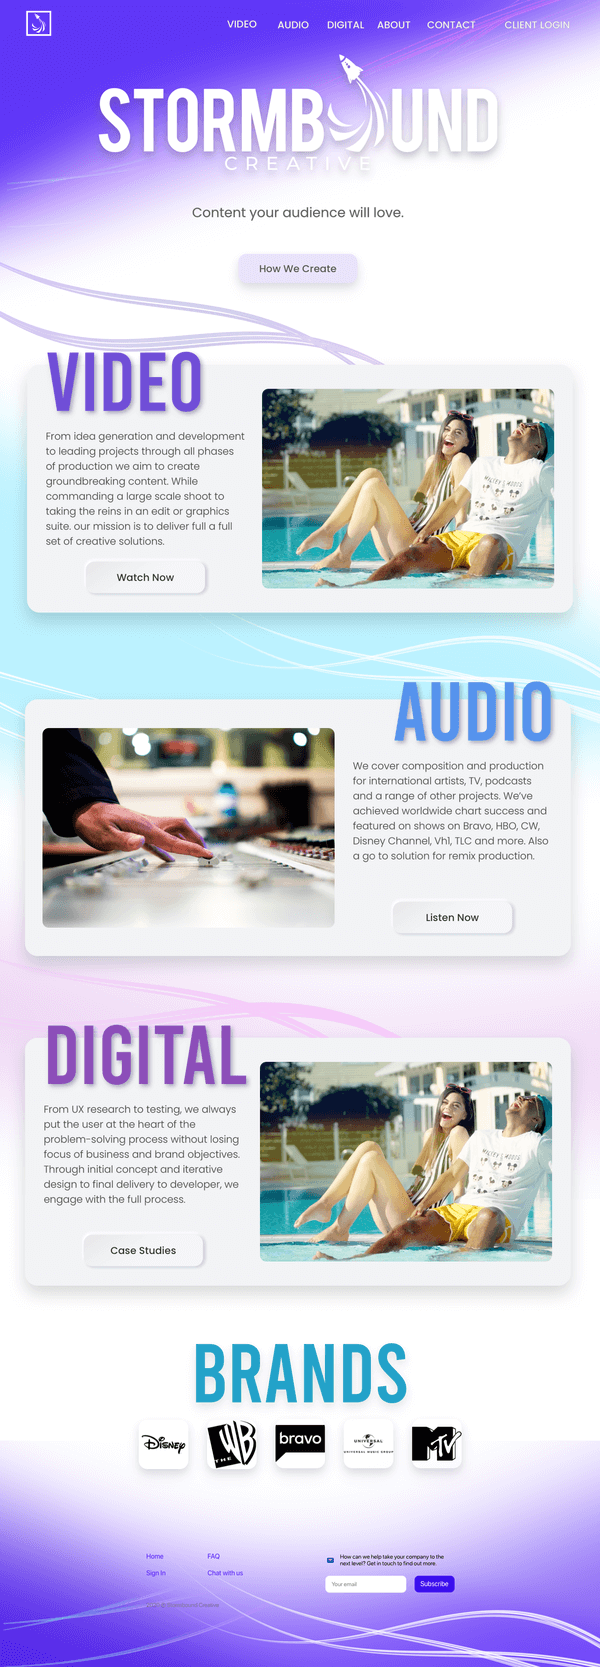
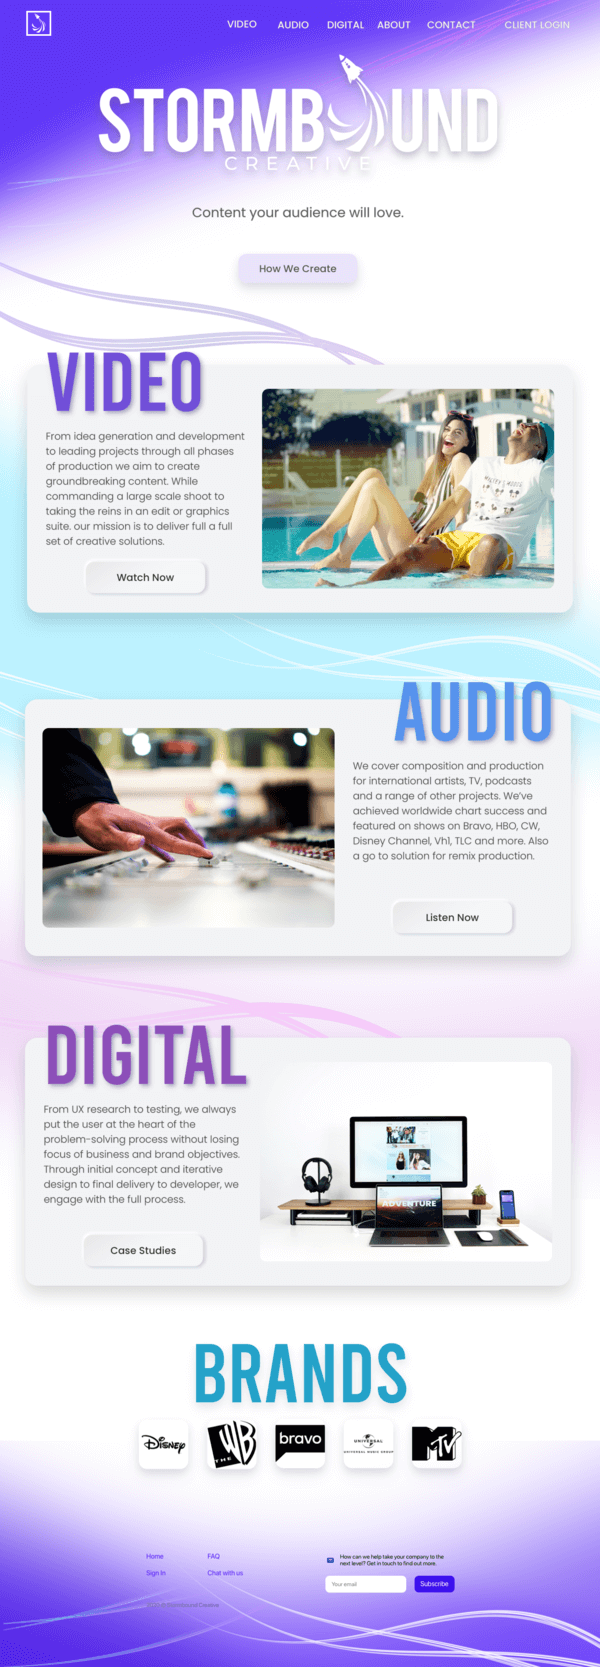
Added Stormbound website image

diff --git a/ui.html b/ui.html
@@ -56,7 +56,7 @@
       </div>
 
       <div>
-        <h3 class="center">Project: A Few New Trends</h3>
+        <h3 class="center">Project: A New UI Trends</h3>
         <br>
         <div class="center">
           <video width="616" height="436" controls>
@@ -68,6 +68,26 @@ Your browser does not support the video tag.
           <p>I wanted to experiment with elements such as large fonts and animations which are currently popping up in a lot of web-design. In the above prototype video I have included a series of micro-interactions to help engage the user.</p>
         </div>
       </div>
+
+<br>
+
+<div>
+  <h3 class="center">Project: Company Website</h3>
+  <br>
+  <div class="pic1">
+    <picture>
+      <source srcset="img/ui/stormbound-600px.png" media="(max-width:767px)">
+      <img class="myImages" id="myImg02" src="img/ui/stormbound-1200px.png" alt="Stormbound Creative Landing Page.">
+    </picture>
+    <div id="myModal02" class="modal">
+      <span class="close">&times;</span>
+      <img class="modal-content" id="img02" alt="LevelEdge Research">
+    </div>
+  </div>
+  <div class="para">
+    <p>Landing page for the Stormbound Creative website. The site is currently being built in Webflow.</p>
+  </div>
+</div>
 
 <br>
 
